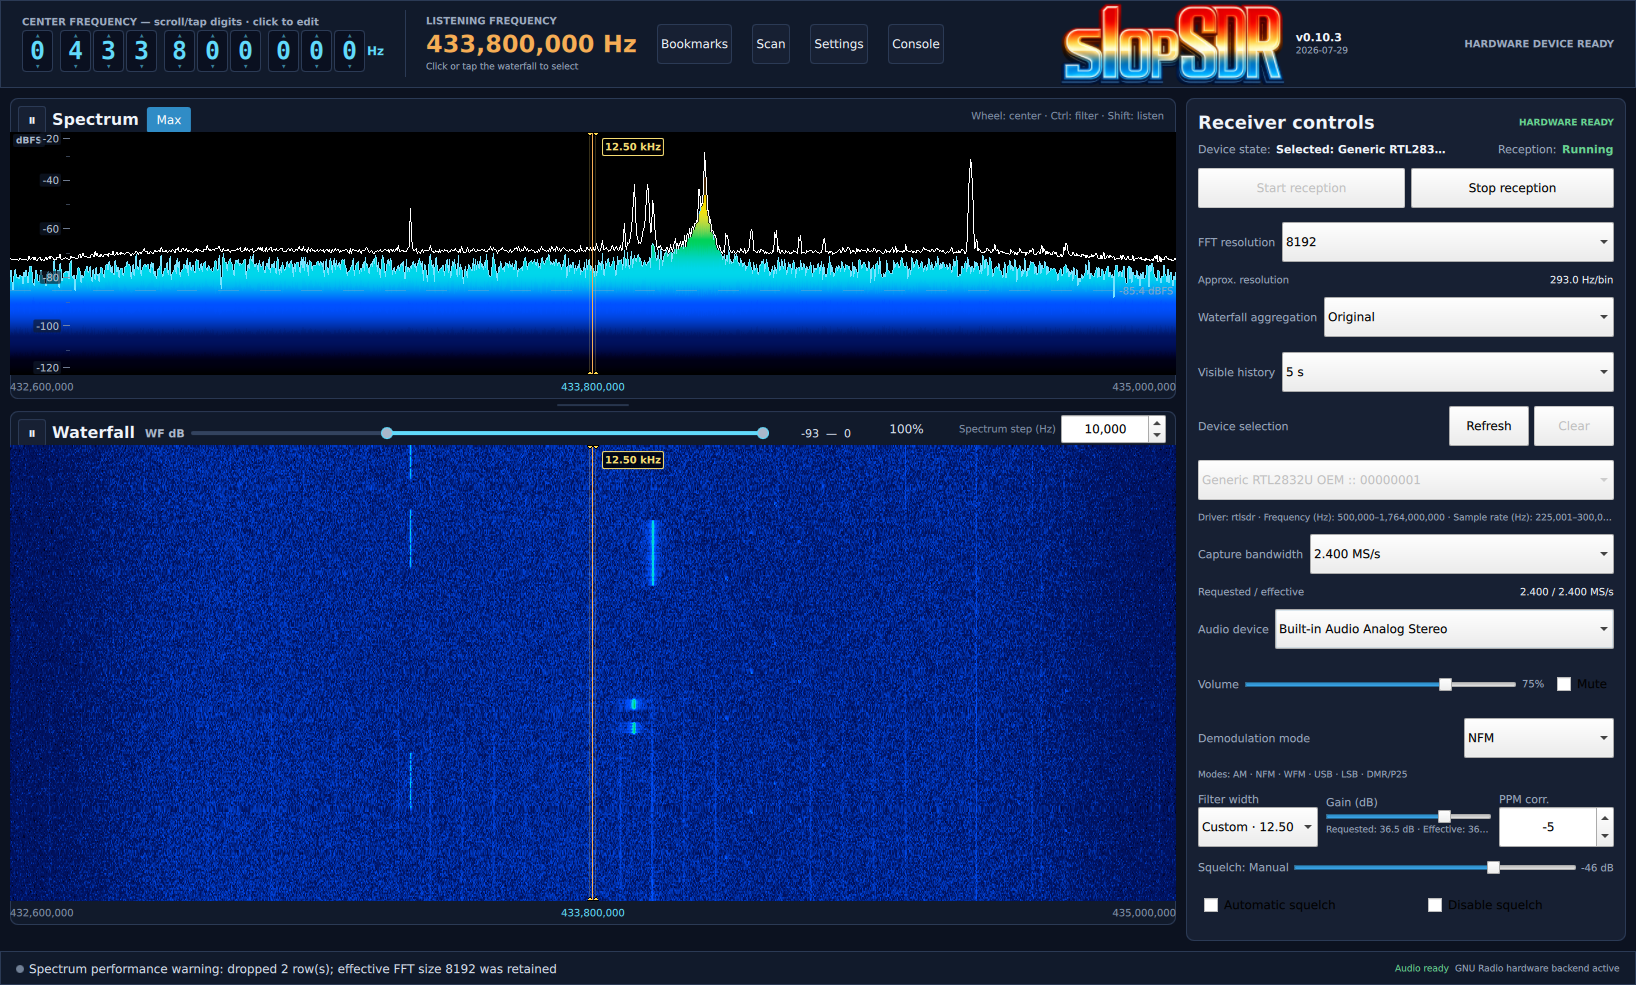
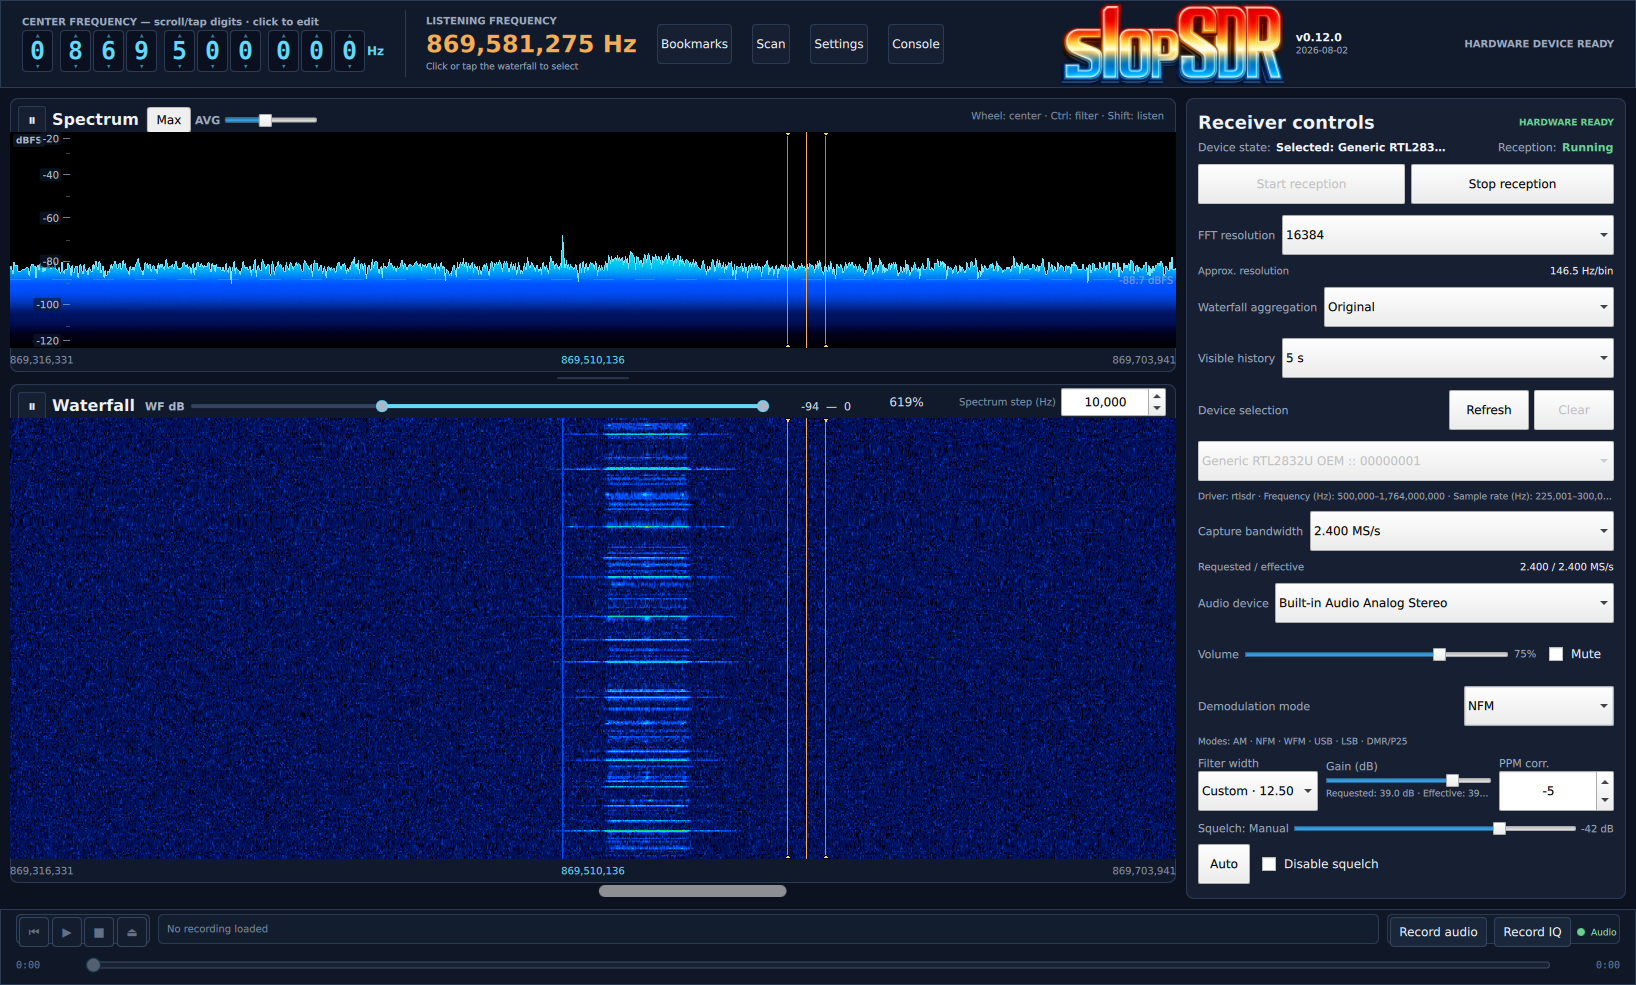
docs: update application screenshot

diff --git a/README.md b/README.md
@@ -4,7 +4,7 @@ slopSDR is a desktop software-defined-radio receiver for exploring, tuning,
 demodulating, and visualizing signals. Its Qt Quick interface, radio domain,
 GNU Radio DSP, SoapySDR device access, and platform services remain separate.
 
-![slopSDR main receiver window](docs/images/slopsdr-main-window.png)
+![slopSDR receiver window with spectrum, waterfall, controls, and recording footer](docs/images/slopsdr-main-window.png)
 
 ## Designed for everyday use
 
